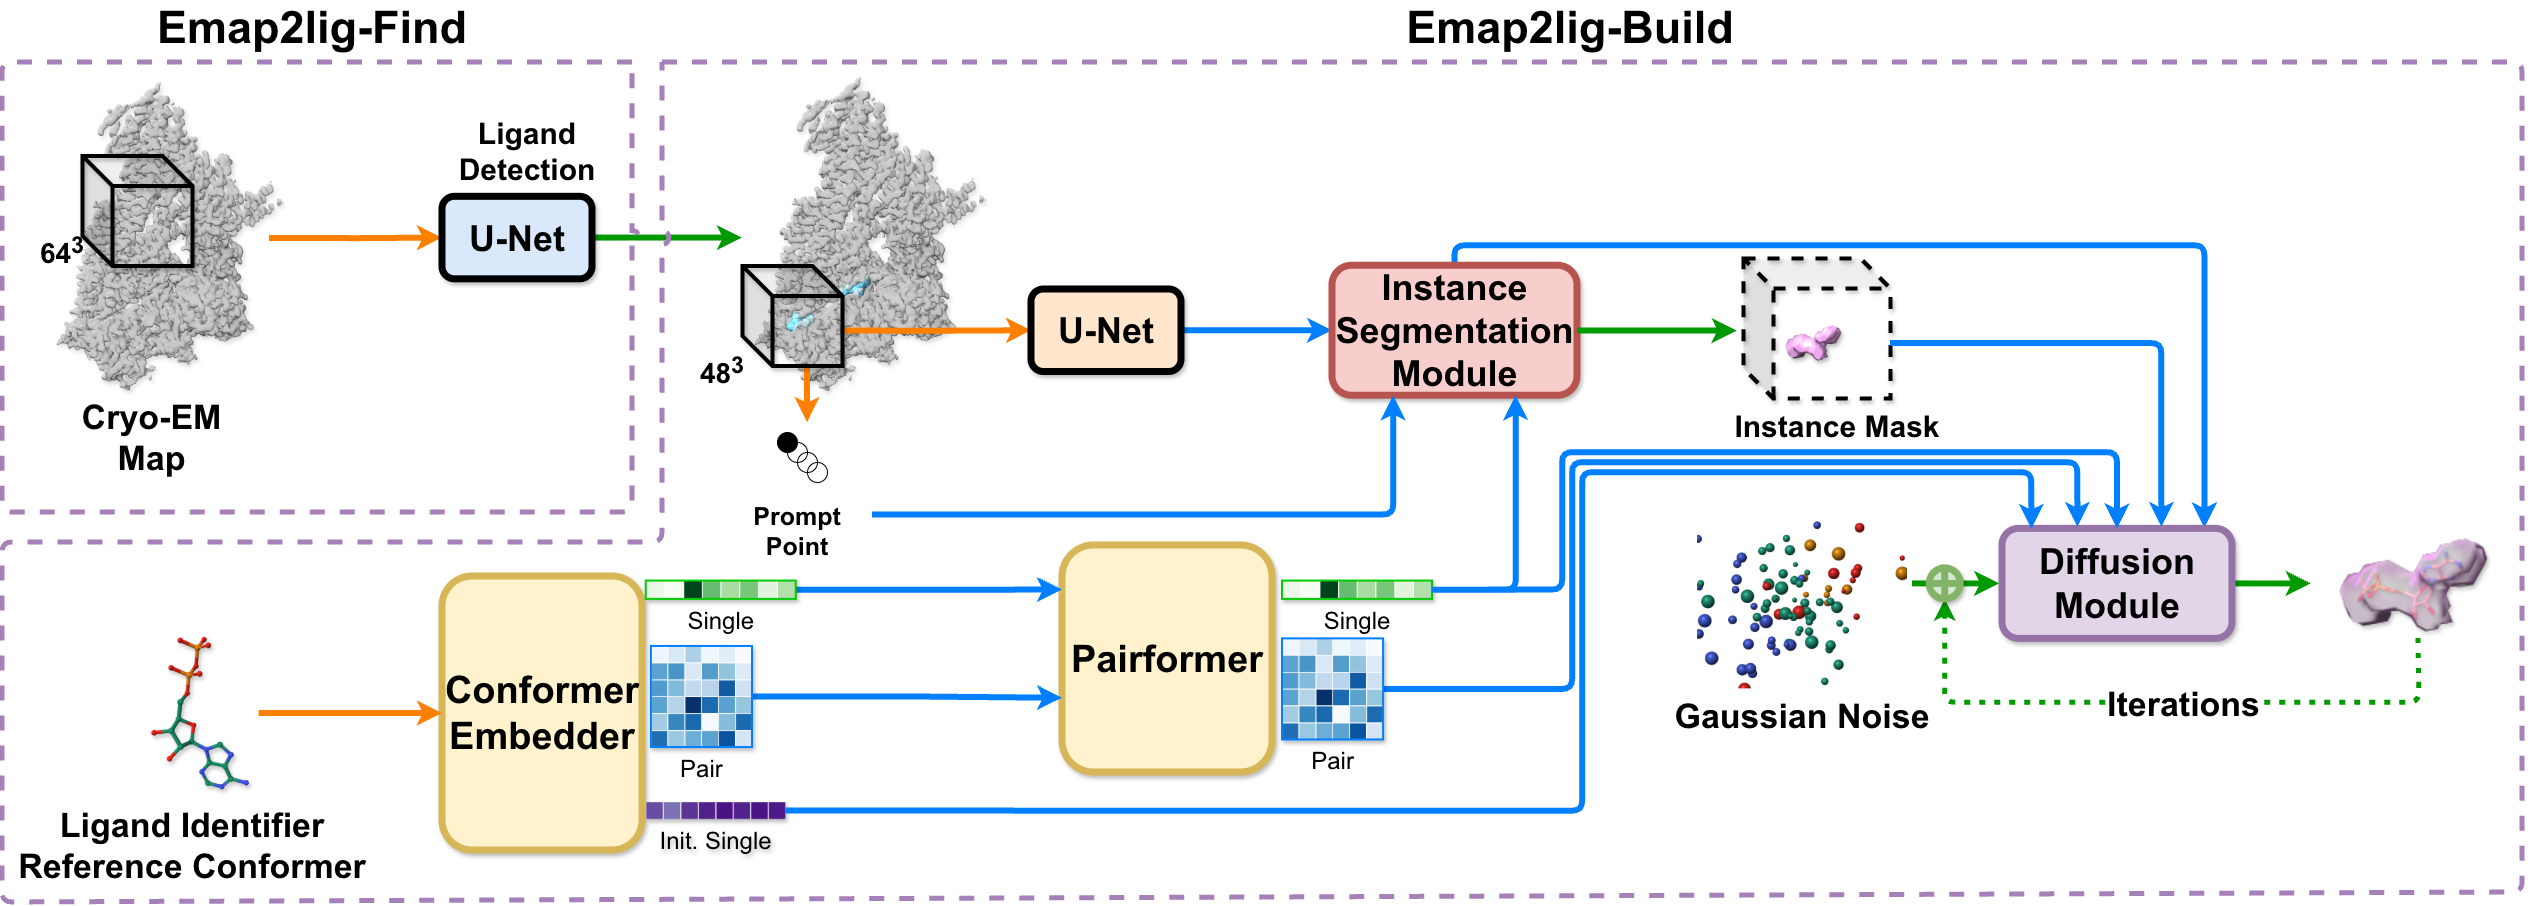
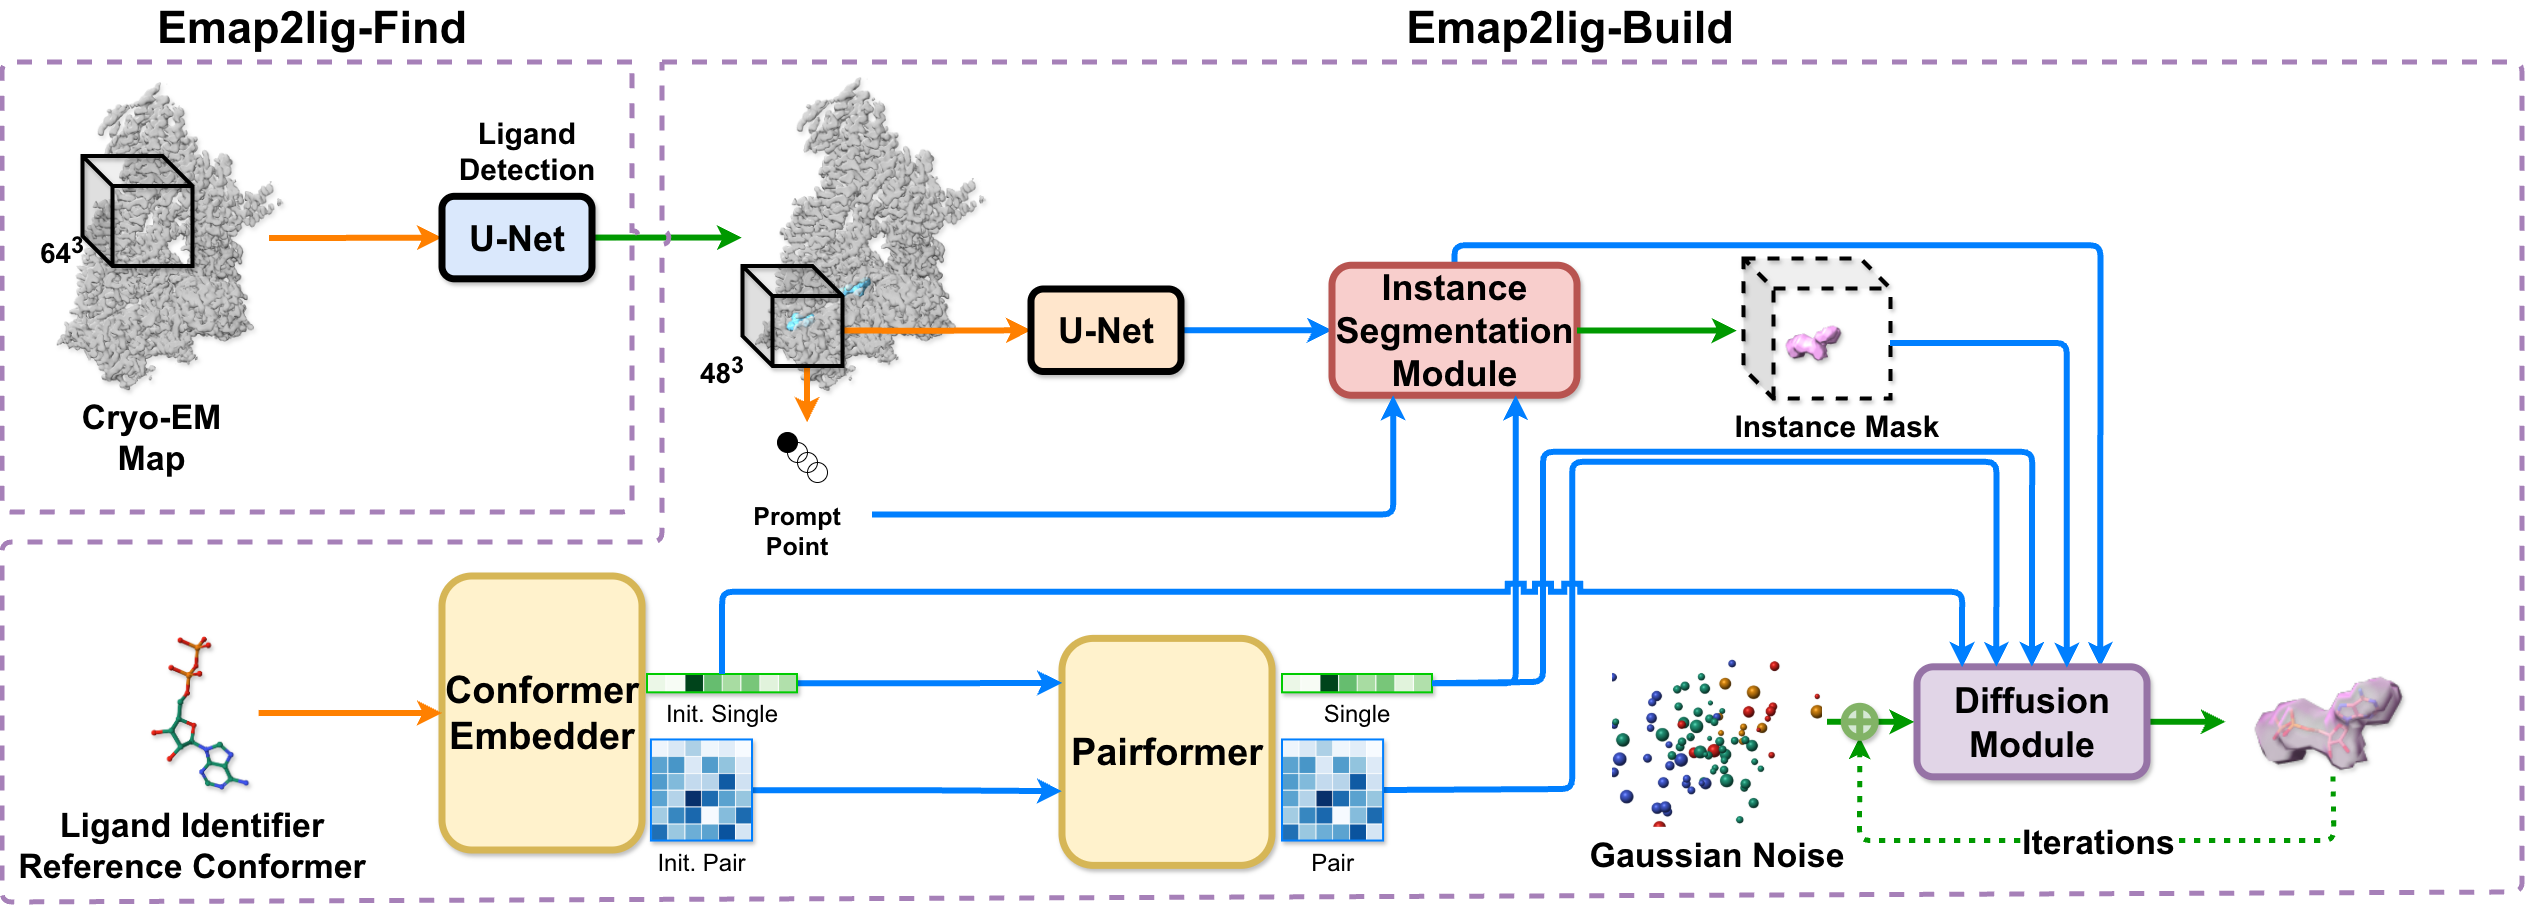
docs: refresh README layout and align licensing with CryoZeta
Unify LICENSE/WEIGHT_LICENSE with CryoZeta (HF canonical terms), simplify
README header to a centered logo with left-aligned badges, and update
docs/models.md plus the workflow image.

diff --git a/README.md b/README.md
@@ -1,24 +1,14 @@
-<div align="center">
-  <table>
-    <tr>
-      <td align="right" valign="middle">
-        <img src="assets/emap2lig-logo-sm.png" alt="Emap2lig logo" width="96" />
-      </td>
-      <td align="left" valign="middle">
-        <h1>Emap2lig</h1>
-      </td>
-    </tr>
-  </table>
-
+<p align="center">
+  <img src="assets/emap2lig-logo-sm.png" alt="Emap2lig" width="180" />
+</p>
 
 [![Kihara Lab](https://img.shields.io/badge/Kihara%20Lab-Purdue%20University-B1810B)](https://kiharalab.org/)
 [![Emap2lig-Find](https://img.shields.io/badge/Emap2lig--Find-Web-4CAF50?logo=web&logoColor=white)](https://em.kiharalab.org/algorithm/Emap2lig-Find)
 [![Emap2lig-Build](https://img.shields.io/badge/Emap2lig--Build-Web-4CAF50?logo=web&logoColor=white)](https://em.kiharalab.org/algorithm/Emap2lig-Build)
 [![HuggingFace Model](https://img.shields.io/badge/Model%20Weights-HuggingFace-FFD21E?logo=huggingface&logoColor=black)](https://huggingface.co/KiharaLab/Emap2lig)
 <br/>
-[![Python 3.12](https://img.shields.io/badge/Python-3.12-3776AB?logo=python&logoColor=white)](https://docs.python.org/3/) [![CUDA](https://img.shields.io/badge/CUDA-12%2F13-76B900?logo=nvidia&logoColor=white)](https://developer.nvidia.com/cuda-toolkit)
-
-</div>
+[![Python 3.12](https://img.shields.io/badge/Python-3.12-3776AB?logo=python&logoColor=white)](https://docs.python.org/3/)
+[![CUDA](https://img.shields.io/badge/CUDA-12%2F13-76B900?logo=nvidia&logoColor=white)](https://developer.nvidia.com/cuda-toolkit)
 
 Official Emap2lig inference pipeline for finding ligand density blobs and building atomic ligand structures in cryo-EM maps.
 
@@ -123,19 +113,13 @@ Then ask your agent: *"Run the Emap2lig pipeline on EMD-30556"*. Guide: [docs/ag
 
 ## License
 
-Emap2lig is covered by **two separate licenses**. Check both before using the
-software or running inference.
+- The **source code** in this repository is released under the [GNU General Public License v3.0](LICENSE).
+- The **trained model weights** are distributed under a separate license and are **free for academic and non-commercial research use only**.
 
-| Component | License | Link |
-|-----------|---------|------|
-| **Source code** (this repository) | GNU General Public License v3.0 (**GPL-3.0**) | [LICENSE](LICENSE) |
-| **Model weights** ([KiharaLab/Emap2lig](https://huggingface.co/KiharaLab/Emap2lig) on HuggingFace) | Academic and Non-Profit Research License Agreement | [LICENSE.md on HuggingFace](https://huggingface.co/KiharaLab/Emap2lig/blob/main/LICENSE.md) |
+Commercial use of the model weights is not permitted without permission.
+For commercial licensing inquiries, please contact the authors.
 
-> [!IMPORTANT]
-> **Model weights are not GPL-3.0.** Downloading or using the weights (inference,
-> fine-tuning, or redistribution) is governed by the
-> [HuggingFace license](https://huggingface.co/KiharaLab/Emap2lig/blob/main/LICENSE.md)
-> only. The GPL-3.0 applies to the source code in this repository.
+See [WEIGHT_LICENSE.md](WEIGHT_LICENSE.md) for full terms.
 
 Weights **download automatically** on first run; see [Model weights](docs/models.md).
 

diff --git a/docs/models.md b/docs/models.md
@@ -10,19 +10,15 @@ Files **download automatically** on first run to `~/.emap2lig/models/` via `hugg
 | Fragment model | `emap2lig-frag.safetensors` | `FragmentRegSeg` |
 | Structure model | `emap2lig-build-v0.0.1.safetensors` | `Emap2lig` (diffusion modeling) |
 | CCD dictionary | `ccd/ccd_dict_250523.pkl` | Reference conformers |
-| License | `LICENSE.md` | Academic and Non-Profit Research License |
+| License | `LICENSE.md` | Academic and Non-Profit Research License (see [WEIGHT_LICENSE.md](../WEIGHT_LICENSE.md)) |
 
 ## License
 
-> [!IMPORTANT]
-> **Model weights** use a custom **Academic and Non-Profit Research License** —
-> separate from the code license.
->
-> - **Source code** (this repo): [GPL-3.0](../LICENSE)
-> - **Model weights** (HuggingFace): [Academic and Non-Profit Research License](https://huggingface.co/KiharaLab/Emap2lig/blob/main/LICENSE.md)
->
-> Weights are **not** GPL-3.0. Review both licenses before inference or
-> fine-tuning.
+- **Source code** (this repo): [GPL-3.0](../LICENSE)
+- **Model weights**: [WEIGHT_LICENSE.md](../WEIGHT_LICENSE.md) (canonical text on [Hugging Face](https://huggingface.co/KiharaLab/Emap2lig/blob/main/LICENSE.md))
+
+Commercial use of the model weights is not permitted without permission.
+For commercial licensing inquiries, please contact the authors.
 
 ## Syncing updates (maintainers)
 

diff --git a/WEIGHT_LICENSE.md b/WEIGHT_LICENSE.md
@@ -1,0 +1,10 @@
+# Model Weight License
+
+The trained model weights for Emap2lig are distributed under a separate
+**Academic and Non-Profit Research License** — not GPL-3.0.
+
+The authoritative license text is maintained on Hugging Face:
+
+**https://huggingface.co/KiharaLab/Emap2lig/blob/main/LICENSE.md**
+
+Model repository: [KiharaLab/Emap2lig](https://huggingface.co/KiharaLab/Emap2lig)
